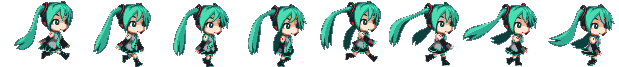
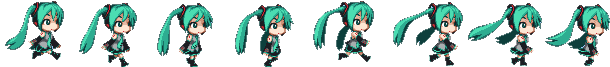
달릴때 완성 (좌우)

diff --git a/move_my_character_with_key.py b/move_my_character_with_key.py
@@ -1,5 +1,6 @@
 from pico2d import *
 from pygame.examples.scroll import DIR_UP
+from pygame.examples.sprite_texture import event
 
 open_canvas()
 ground = load_image('TUK_GROUND.png')
@@ -37,7 +38,8 @@ def handle_events():
 
 
 running = True
-x = 800 // 2
+x = 80
+y = 150
 frame = 0
 dirRL = 0
 dirUD = 0
@@ -50,20 +52,38 @@ def standCha(): #가만히 서있을 때 함수
 
     print("stand")
     character = load_image('standmiku1.png')  # 가만히 서있는거
-    character.clip_draw(frame * 59, 0, 59, 67, x, 90)
+    character.clip_draw(frame * 59, 0, 59, 67, x, y,100,110)
     frame = (frame + 1) % standFrame
+    
+def runCha(): # 달릴때 오른쪽 함수
+    global frame,dirRL
+
+    print("run")
+    if(dirRL == 1):
+        character = load_image('runRmiku.png')  # 달리는거 오른쪽
+        character.clip_draw(frame * 78, 0, 78, 67, x, y, 120, 110)  # 오른쪽
+    elif(dirRL== -1):
+        character = load_image('runLmiku.png')  # 달리는거 왼쪽
+        character.clip_draw(frame * 78, 0, 78, 67, x, y, 120, 110)  # 왼쪽
+
+    frame = (frame + 1) % runFrame
 
 while running:
     clear_canvas()
     ground.draw(400,300,800,600)
+    
     print("UPDOWN 확인:",dirUD)
     print("RIGHTLEFT 확인:", dirRL)
 
-    #standCha()
     # 가만히 서있을 때
-    # ~~
+    if(dirUD == 0 and dirRL == 0):
+        standCha()
 
     # 달릴 때
+    elif (dirRL == 1): # 오른쪽
+        runCha()
+    elif (dirRL == -1):  # 왼쪽
+        runCha()
     # ~~
 
     # 아래로 갈 때
@@ -76,6 +96,6 @@ while running:
     handle_events()
 
     x += dirRL*15
-    delay(0.05)
+    delay(0.03)
 
 close_canvas()
